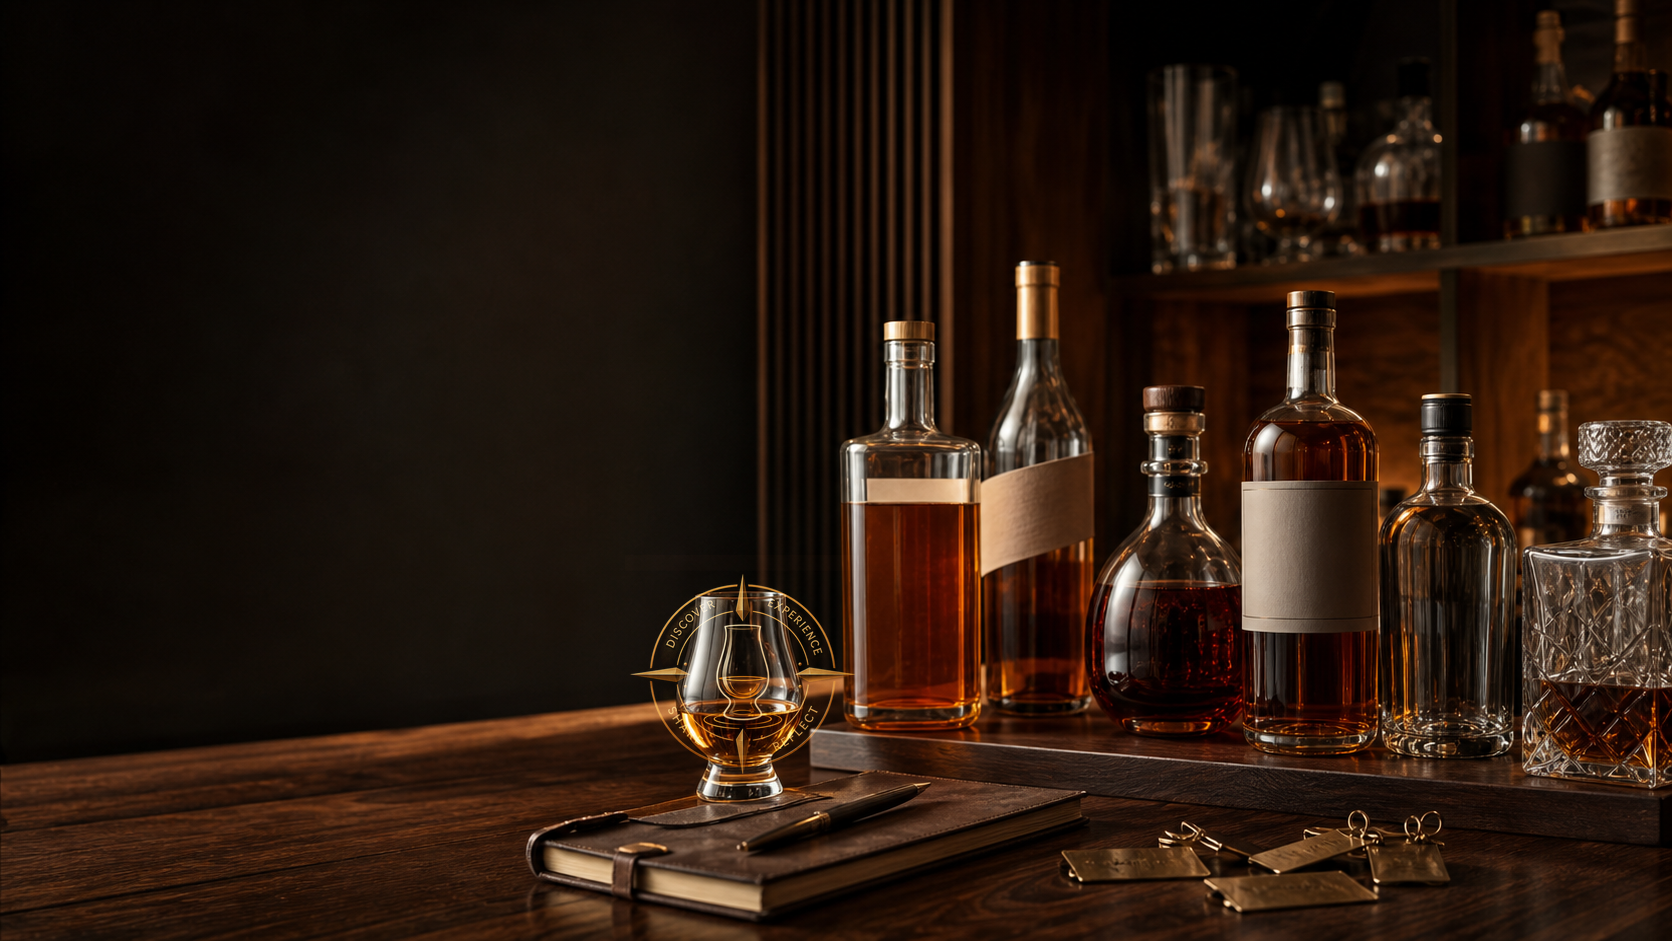
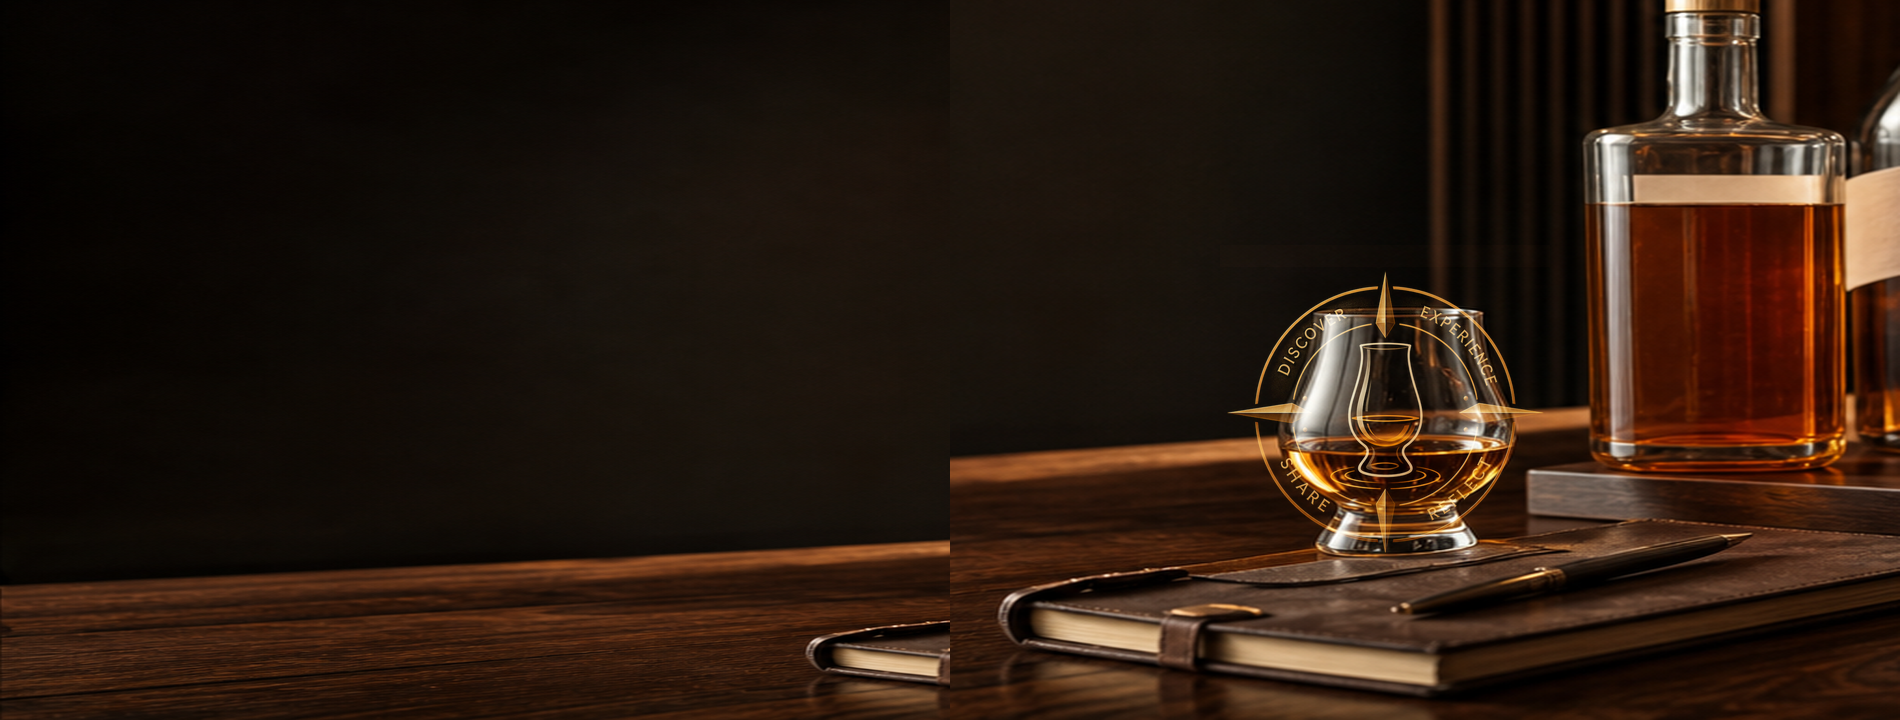
Rebuild the Home hero image to match the reference exactly
Recompose the hero photo so the compass-etched glass is the dominant subject
(tightly cropped and enlarged, like a product hero) instead of a small
element lost in the wider bar-shelf shot, with a blurred bottle at the edge
for depth. Add the small amber divider rule between the headline and
subhead, and give the hero more breathing room (420px -> 480px).

diff --git a/publish/styles.css b/publish/styles.css
@@ -660,12 +660,12 @@ label {
 }
 
 .home-hero {
-  min-height: 420px;
+  min-height: 480px;
   margin-bottom: 24px;
 }
 
 .home-hero .hero-overlay {
-  min-height: 420px;
+  min-height: 480px;
   align-items: center;
 }
 
@@ -687,6 +687,14 @@ label {
 
 .home-hero-title span.accent {
   color: var(--amber);
+}
+
+.home-hero-divider {
+  width: 48px;
+  height: 2px;
+  margin: 16px 0;
+  background: var(--amber);
+  border: none;
 }
 
 .home-hero-actions {

diff --git a/styles.css b/styles.css
@@ -660,12 +660,12 @@ label {
 }
 
 .home-hero {
-  min-height: 420px;
+  min-height: 480px;
   margin-bottom: 24px;
 }
 
 .home-hero .hero-overlay {
-  min-height: 420px;
+  min-height: 480px;
   align-items: center;
 }
 
@@ -687,6 +687,14 @@ label {
 
 .home-hero-title span.accent {
   color: var(--amber);
+}
+
+.home-hero-divider {
+  width: 48px;
+  height: 2px;
+  margin: 16px 0;
+  background: var(--amber);
+  border: none;
 }
 
 .home-hero-actions {

diff --git a/publish/sw.js b/publish/sw.js
@@ -1,9 +1,9 @@
-const CACHE_NAME = "fip-shell-v61";
+const CACHE_NAME = "fip-shell-v62";
 
 const SHELL_ASSETS = [
   "./",
   "index.html",
-  "styles.css?v=98",
+  "styles.css?v=99",
   "app.js?v=115",
   "manifest.webmanifest",
   "assets/compass-mark.png",

diff --git a/sw.js b/sw.js
@@ -1,9 +1,9 @@
-const CACHE_NAME = "fip-shell-v61";
+const CACHE_NAME = "fip-shell-v62";
 
 const SHELL_ASSETS = [
   "./",
   "index.html",
-  "styles.css?v=98",
+  "styles.css?v=99",
   "app.js?v=115",
   "manifest.webmanifest",
   "assets/compass-mark.png",

diff --git a/index.html b/index.html
@@ -16,7 +16,7 @@
     <meta name="mobile-web-app-capable" content="yes" />
     <meta name="apple-mobile-web-app-status-bar-style" content="black-translucent" />
     <meta name="apple-mobile-web-app-title" content="FI Pour" />
-    <link rel="stylesheet" href="styles.css?v=98" />
+    <link rel="stylesheet" href="styles.css?v=99" />
   </head>
   <body>
     <div class="welcome-screen is-hidden" id="welcomeScreen">
@@ -309,6 +309,7 @@
                   <span>Drink what you enjoy.</span>
                   <span class="accent">Share what matters.</span>
                 </h1>
+                <hr class="home-hero-divider" />
                 <p class="hero-description">
                   Fully Involved Pour is your space to discover great whiskey, track your collection, and share
                   reviews that connect.

diff --git a/publish/index.html b/publish/index.html
@@ -16,7 +16,7 @@
     <meta name="mobile-web-app-capable" content="yes" />
     <meta name="apple-mobile-web-app-status-bar-style" content="black-translucent" />
     <meta name="apple-mobile-web-app-title" content="FI Pour" />
-    <link rel="stylesheet" href="styles.css?v=98" />
+    <link rel="stylesheet" href="styles.css?v=99" />
   </head>
   <body>
     <div class="welcome-screen is-hidden" id="welcomeScreen">
@@ -309,6 +309,7 @@
                   <span>Drink what you enjoy.</span>
                   <span class="accent">Share what matters.</span>
                 </h1>
+                <hr class="home-hero-divider" />
                 <p class="hero-description">
                   Fully Involved Pour is your space to discover great whiskey, track your collection, and share
                   reviews that connect.